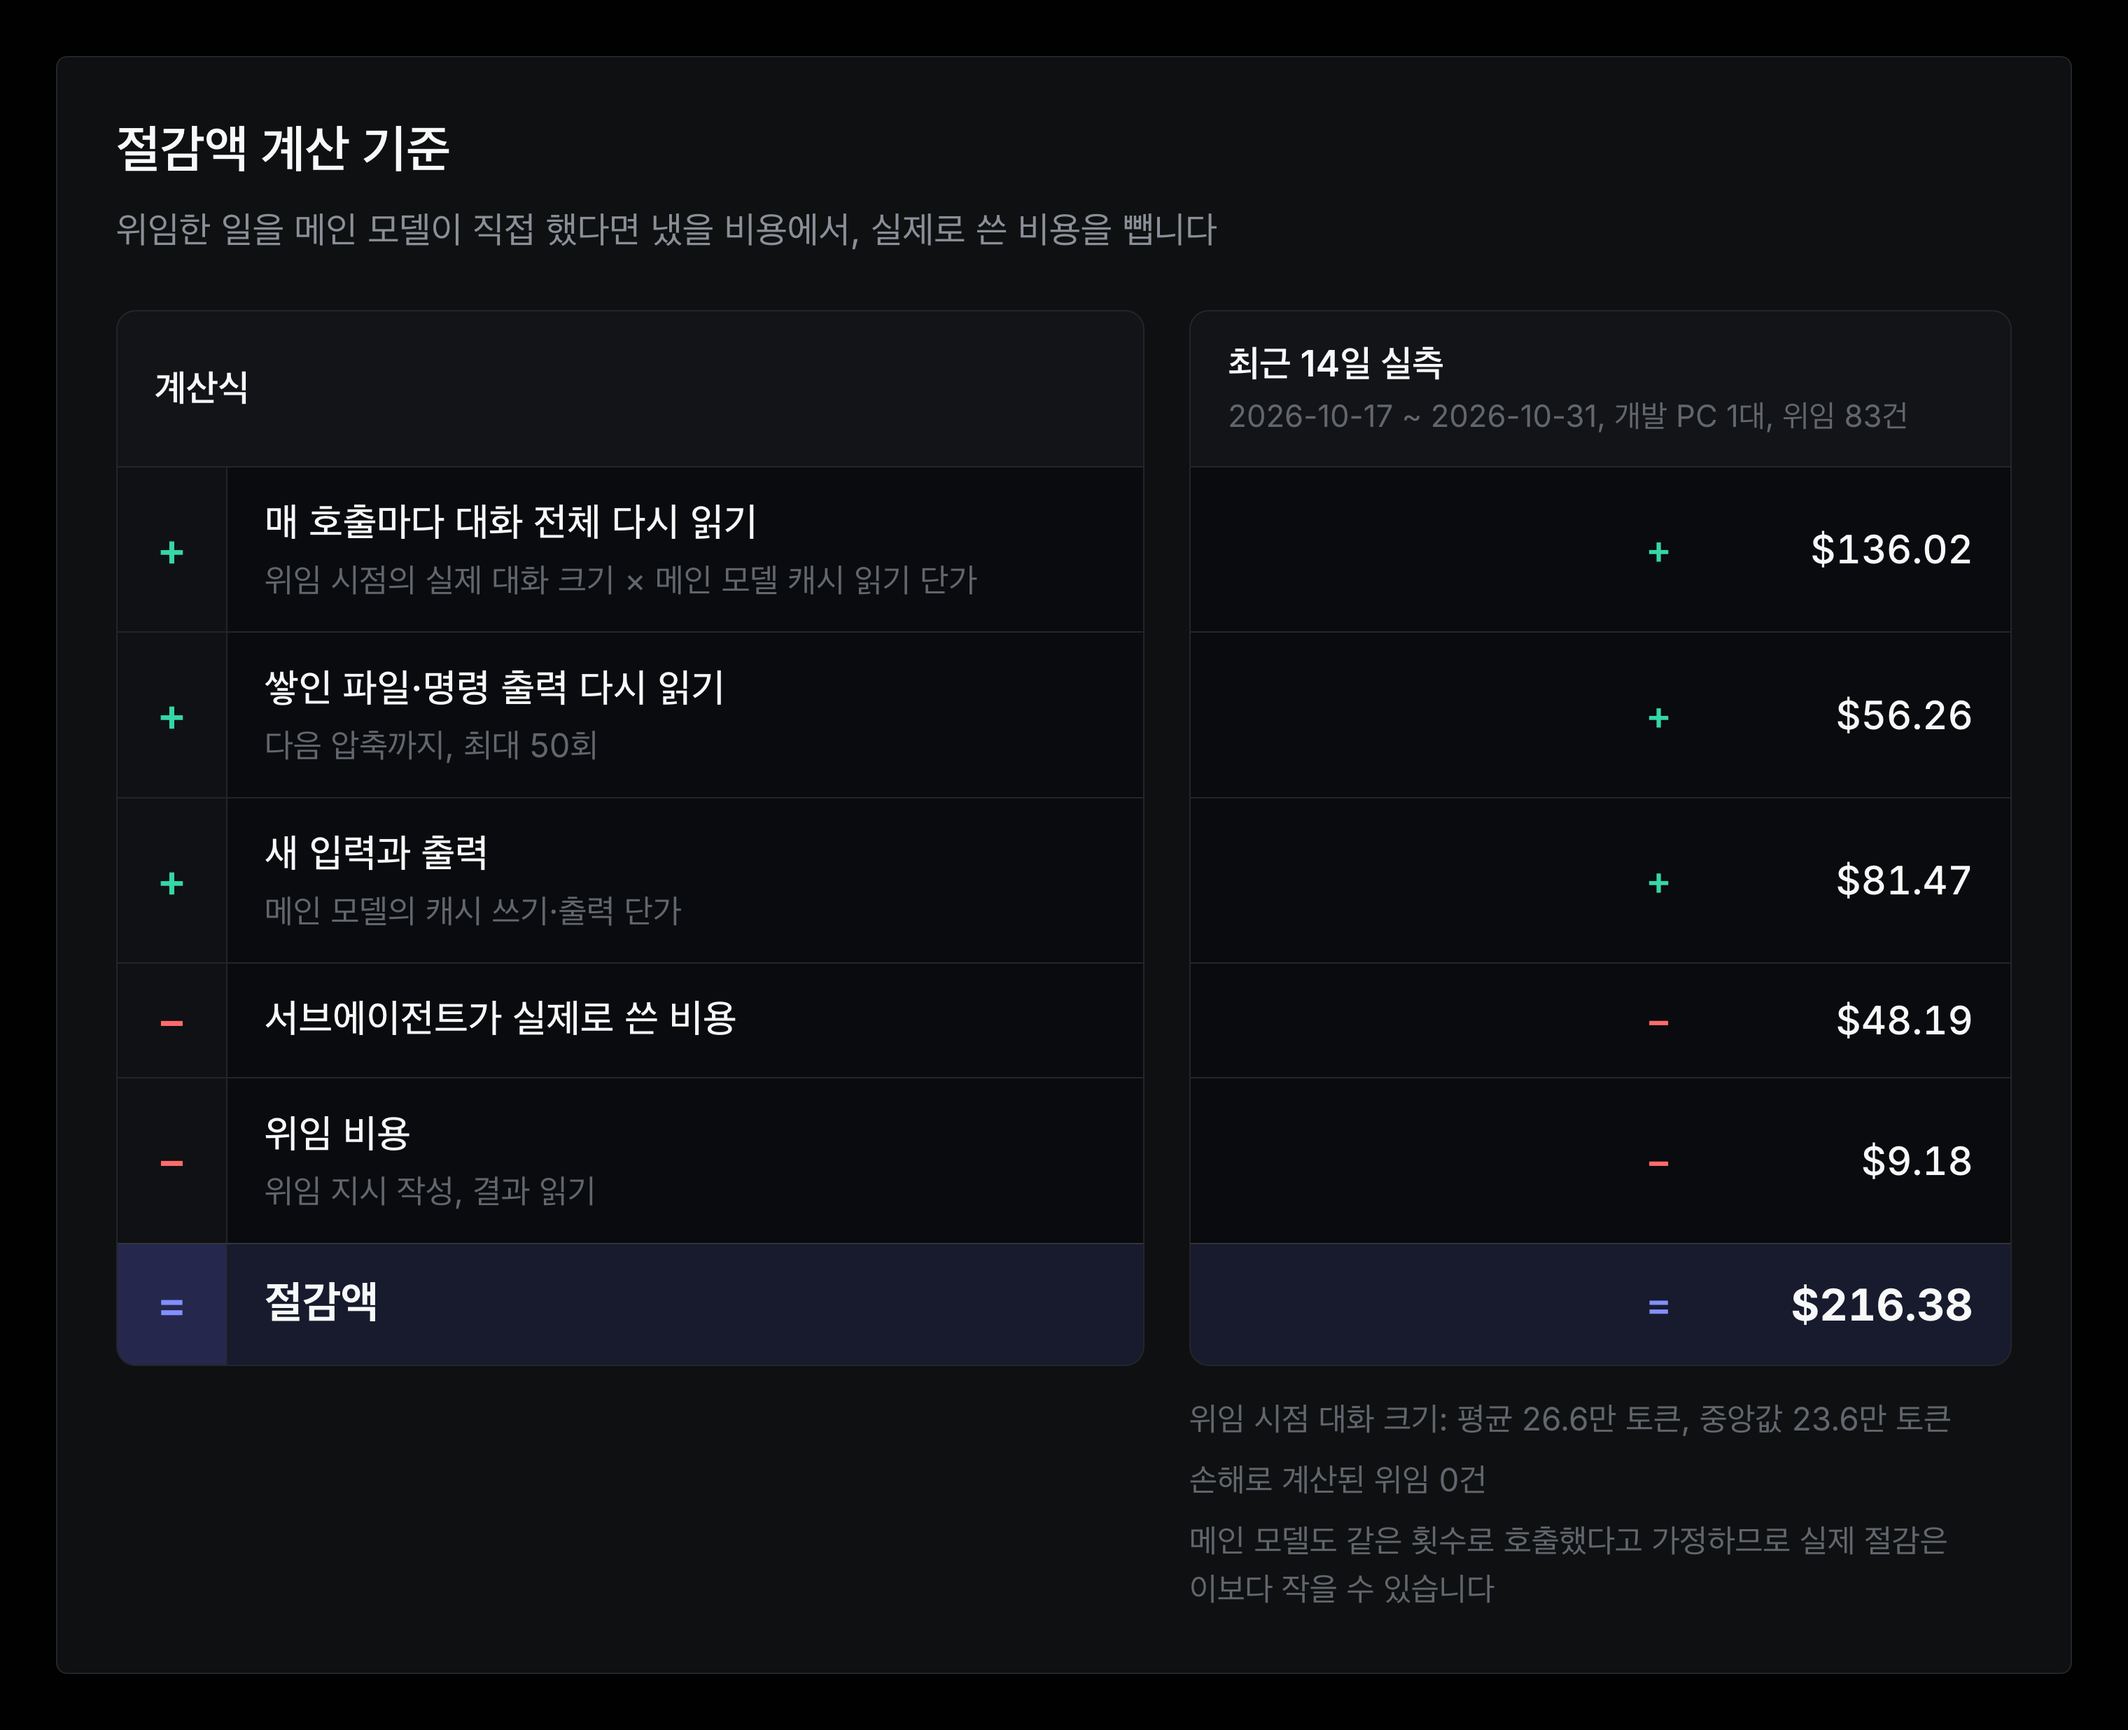
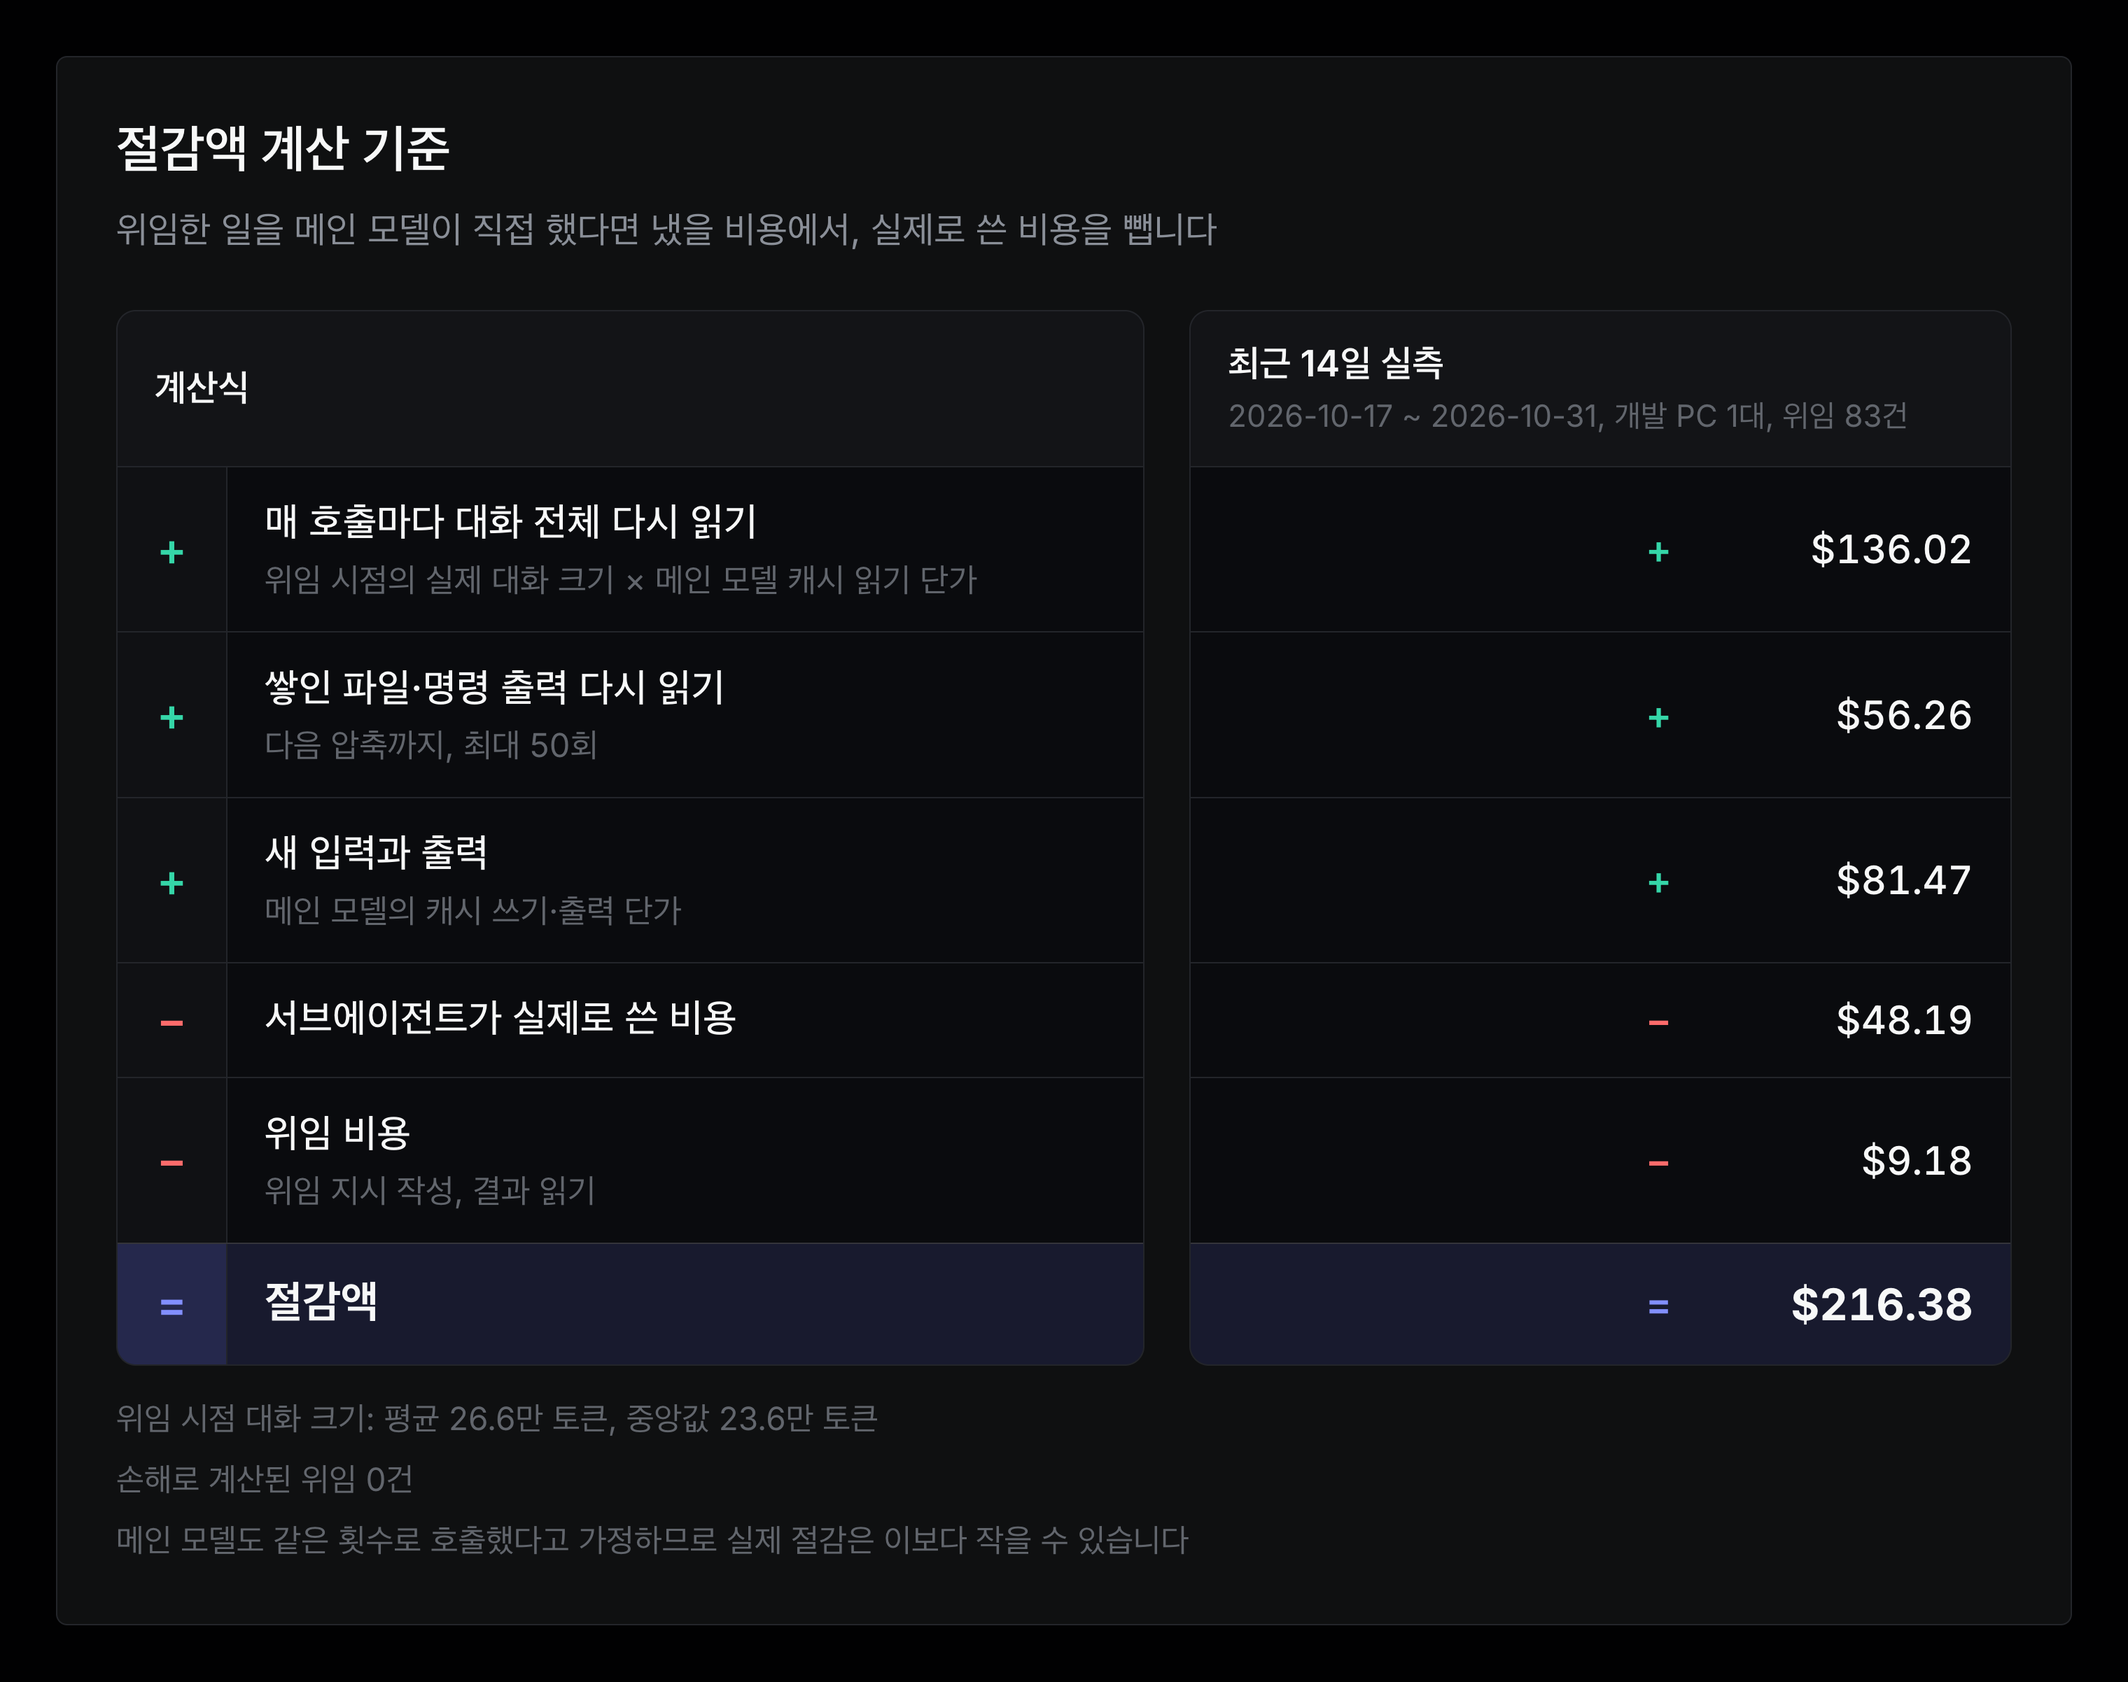
fix(site): let the savings footnotes span both columns
The footnotes sat in the right-hand column only, so the line on
conversation size wrapped into a narrow strip. They now run under both
columns on the site and in the README image.

diff --git a/docs/explain/explain.html b/docs/explain/explain.html
@@ -74,7 +74,7 @@
   .ex-row.total .ex-item b{font-weight:700;font-size:1.12em}
   .ex-row.total .ex-amt i{color:var(--amber2)}
   .ex-row.total .ex-amt b{font-weight:700;font-size:1.12em;min-width:6.25em}
-  .ex-notes{grid-column:2;padding-top:.9em;display:grid;gap:.4em;font-size:.82em;color:var(--faint);line-height:1.5;text-wrap:pretty}
+  .ex-notes{grid-column:1 / -1;padding-top:.9em;display:grid;gap:.4em;font-size:.82em;color:var(--faint);line-height:1.5;text-wrap:pretty}
   html[lang=ko] .explain{word-break:keep-all}
   @media(max-width:720px){.ex-card{padding:1.25em}.ex-cols{grid-template-columns:minmax(0,1fr);row-gap:.9em}.ex-col{grid-row:span 7}.ex-notes{grid-column:1}}
   /* README image: 28px base keeps the text legible when the PNG is shown 760px wide */

diff --git a/site/index.html b/site/index.html
@@ -533,7 +533,7 @@
   .ex-row.total .ex-item b{font-weight:700;font-size:1.12em}
   .ex-row.total .ex-amt i{color:var(--amber2)}
   .ex-row.total .ex-amt b{font-weight:700;font-size:1.12em;min-width:6.25em}
-  .ex-notes{grid-column:2;padding-top:.9em;display:grid;gap:.4em;font-size:.82em;color:var(--faint);line-height:1.5;text-wrap:pretty}
+  .ex-notes{grid-column:1 / -1;padding-top:.9em;display:grid;gap:.4em;font-size:.82em;color:var(--faint);line-height:1.5;text-wrap:pretty}
   html[lang=ko] .explain{word-break:keep-all}
   @media(max-width:720px){.ex-card{padding:1.25em}.ex-cols{grid-template-columns:minmax(0,1fr);row-gap:.9em}.ex-col{grid-row:span 7}.ex-notes{grid-column:1}}
   @media(max-width:600px){
